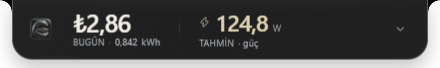
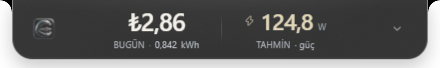
fix: center compact electricity metrics and preserve tariff selections

diff --git a/main/main.ts b/main/main.ts
@@ -241,7 +241,9 @@ if (!lock) {
       const settings = validateSettings(input);
       if (
         settings.tariff !== store.data.settings.tariff ||
-        settings.currency !== store.data.settings.currency
+        settings.currency !== store.data.settings.currency ||
+        settings.electricity.tier !== store.data.settings.electricity.tier ||
+        settings.electricity.subscription !== store.data.settings.electricity.subscription
       )
         settings.electricity = {
           ...settings.electricity,
@@ -654,6 +656,13 @@ if (!lock) {
           );
           await pause();
           if (win.getBounds().height !== 68) throw new Error('Compact window failed');
+          const compactAlignment = await win.webContents.executeJavaScript(
+            `(()=>{const island=document.querySelector('.compact').getBoundingClientRect();const stats=[...document.querySelectorAll('.compact-stat')].map(e=>e.getBoundingClientRect());const center=(stats[0].left+stats.at(-1).right)/2;return {error:Math.abs(center-(island.left+island.right)/2),overflow:document.querySelector('.compact-readout').scrollWidth>document.querySelector('.compact-readout').clientWidth};})()`,
+          );
+          if (compactAlignment.error > 1 || compactAlignment.overflow)
+            throw new Error(
+              'Compact centering/overflow failed: ' + JSON.stringify(compactAlignment),
+            );
           fs.writeFileSync(
             path.join(artifact, 'compact.png'),
             (await win.webContents.capturePage()).toPNG(),
@@ -739,6 +748,7 @@ if (!lock) {
                   'cross-display-persistence',
                   'energy-first-hierarchy',
                   'daily-hourly-cost',
+                  'compact-centered-metrics',
                   'tariff-setup-focus',
                   'tariff-setup-persistence',
                 ],

diff --git a/src/style.css b/src/style.css
@@ -1328,3 +1328,54 @@ footer {
 .subtle-button:hover {
   color: #fff;
 }
+/* Symmetric end controls keep the metric group centered when the island collapses. */
+.compact {
+  display: grid;
+  grid-template-columns: 32px minmax(0, 1fr) 32px;
+  gap: 8px;
+  padding: 0 14px;
+  background: radial-gradient(ellipse at 50% -70%, #ffffff0d, transparent 65%), #000;
+}
+.compact .compact-brand {
+  justify-content: center;
+  min-width: 0;
+}
+.compact > .icon-button {
+  justify-self: center;
+}
+.compact .compact-readout {
+  width: 100%;
+  justify-content: center;
+  gap: 22px;
+}
+.compact .compact-readout .compact-stat {
+  align-items: center;
+  justify-content: center;
+  text-align: center;
+  gap: 6px;
+}
+.compact .compact-value,
+.compact .compact-context {
+  justify-content: center;
+}
+.compact .compact-separator {
+  margin: 0;
+  height: 30px;
+  background: linear-gradient(transparent, #d9cda829, transparent);
+}
+.compact .compact-value strong {
+  line-height: 24px;
+}
+.compact .compact-context {
+  letter-spacing: 0.15px;
+}
+@media (max-width: 380px) {
+  .compact {
+    grid-template-columns: 22px minmax(0, 1fr) 22px;
+    padding: 0 8px;
+    gap: 5px;
+  }
+  .compact .compact-readout {
+    gap: 12px;
+  }
+}

diff --git a/src/app.ts b/src/app.ts
@@ -558,7 +558,16 @@ function bindSettings() {
     const num = (key: string) => Number(data.get(key));
     const next: Settings = {
       ...settings,
-      electricity: { ...settings.electricity, onboardingComplete: true },
+      electricity: {
+        ...settings.electricity,
+        city: String(data.get('tariffCity') ?? settings.electricity.city),
+        district: String(data.get('tariffDistrict') ?? settings.electricity.district).trim(),
+        subscription: (data.get('tariffSubscription') ??
+          settings.electricity.subscription) as Settings['electricity']['subscription'],
+        tier: (data.get('tariffTier') ??
+          settings.electricity.tier) as Settings['electricity']['tier'],
+        onboardingComplete: true,
+      },
       widgets: data.getAll('widget') as WidgetId[],
       language: data.get('language') as Settings['language'],
       currency: data.get('currency') as Settings['currency'],

diff --git a/docs/RELEASE_NOTES.md b/docs/RELEASE_NOTES.md
@@ -1,6 +1,8 @@
-# Cortexia Island 0.1.0-alpha.4
+# Cortexia Island 0.1.0-alpha.5
 
 An original OLED black island focused on PC electricity and estimated cost, with optional Shelly outlet readings, network health and six configurable widgets.
+
+Alpha.5 centers compact content between symmetric end controls, refines numerical alignment and restrained material detail, and tests centering/no overflow. Includes the alpha.4 electricity-first source changes below.
 
 Alpha.4 puts today's estimated cost first in compact and expanded views. Tracked kWh, instantaneous watts and the hourly estimate at current power complete the electricity story. Missing tariffs lead to a clear setup action; historical unpriced consumption stays unpriced. Network traffic becomes a secondary panel. Typography, spacing, material restraint and bundled Lucide icons refine the visual hierarchy. Smoke tests cover cost math on screen and the tariff setup journey.
 

diff --git a/CHANGELOG.md b/CHANGELOG.md
@@ -1,5 +1,12 @@
 # Changelog
 
+## 0.1.0-alpha.5 — 2026-10-07
+
+- Center compact metric content between symmetric brand/expand controls at every window width.
+- Refine compact spacing, value alignment, champagne separators and subtle upper light reflection; assert centering and no overflow in native smoke.
+- Persist manual location/subscription selections and clear online provenance when the selected tariff tier or subscription changes.
+- Include the electricity-first redesign and direct EPDK setup introduced in the alpha.4 source revision. Alpha.4 was not tagged remotely; alpha.5 is the packaged follow-up.
+
 ## 0.1.0-alpha.4 — 2026-10-07
 
 - Make electricity and cost the primary theme: prominent daily estimated cost, tracked kWh, current-power hourly estimate and secondary network readings.

diff --git a/docs/HANDOFF.md b/docs/HANDOFF.md
@@ -1,6 +1,6 @@
 # Current handoff
 
-Version: 0.1.0-alpha.4. Branch: main. All owner requests and the continuation queue are recorded in REQUESTS.md.
+Version: 0.1.0-alpha.5. Branch: main. All owner requests and the continuation queue are recorded in REQUESTS.md.
 
 The initial desktop foundation is implemented. Read README, ROADMAP, ARCHITECTURE and RELEASING before continuing. The owner will supply the next widget ideas. Keep the reference concept as inspiration; design remains original.
 
